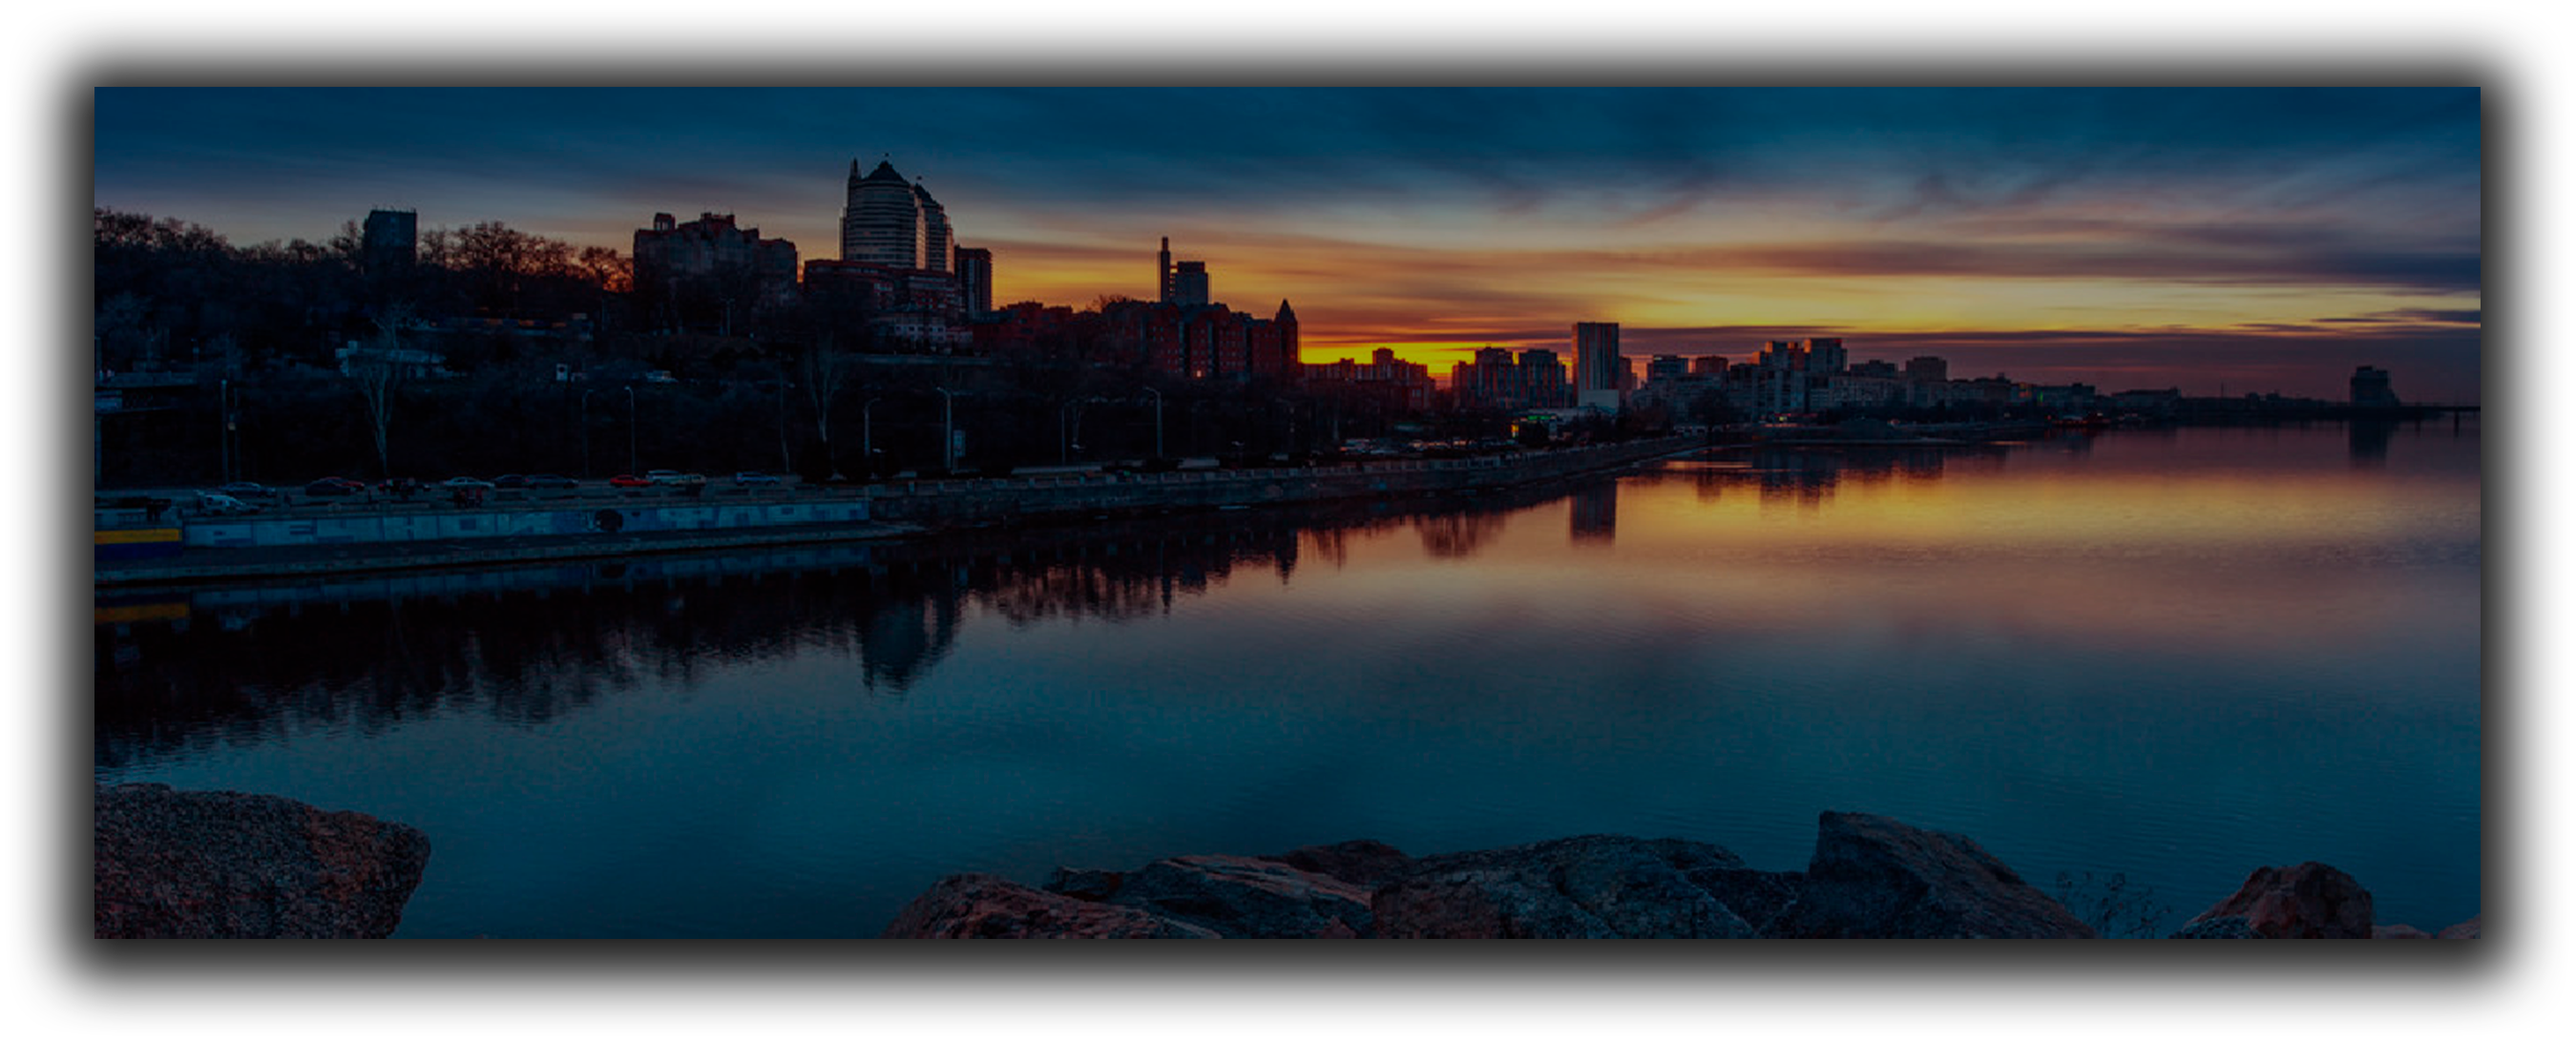
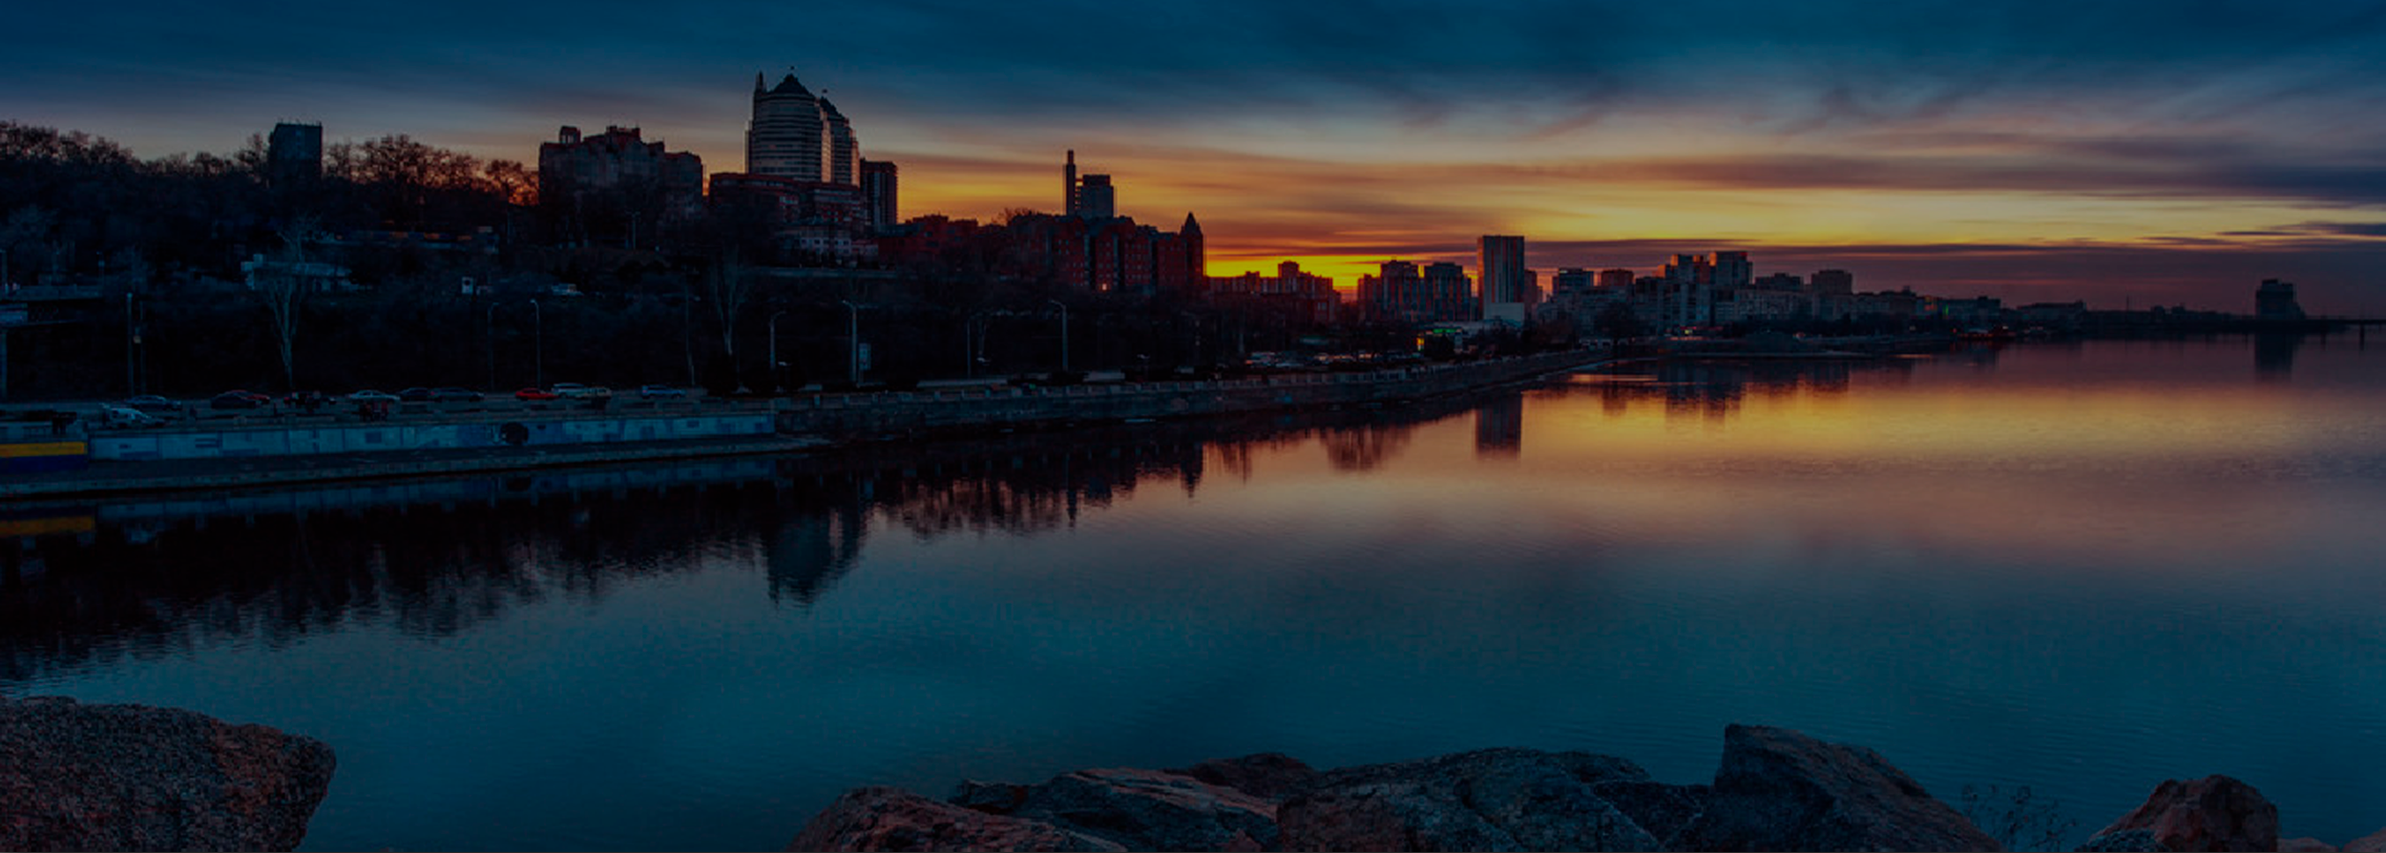
Add navigation and update header styles

diff --git a/afishaDnepra/index.html b/afishaDnepra/index.html
@@ -21,8 +21,8 @@
     <script src="js/vendor/home.js"></script>
 </head>
 <body>
-    <div class="wrapper">
-        <header class="header">
+    <header class="header">
+        <div class="wrapper">
             <a href="#" class="logo">
                 <img src="img/header_logo.png" class="header-logo">
                 <img src="img/header_logo_sub.png" class="header-sublogo">
@@ -38,27 +38,31 @@
                 </form>
             </div>
             <div class="top-gallery"></div>
-        </header>
-        <div class="nav cf">
-            <ul class="menu fl-l">
-                <li class="home"><a href="#"><span>Домой</span></a></li>
-                <li class="map"><a href="#"><span>Карта</span></a></li>
-            </ul>
-            <a href="#" class="calendar fl-r"><span>Календарь</span></a>
-            <ul class="menu">
-                <li class="sport"><a href="#"><span>Спорт</span></a></li>
-                <li class="thater"><a href="#"><span>Театры</span></a></li>
-                <li class="club"><a href="#"><span>Клубы</span></a></li>
-                <li class="movie"><a href="#"><span>Кино</span></a></li>
-                <li class="party"><a href="#"><span>Праздники</span></a></li>
-                <li class="exhibition"><a href="#"><span>Выставки</span></a></li>
-                <li class="presentation"><a href="#"><span>Презентации</span></a></li>
-                <li class="children"><a href="#"><span>Детям</span></a></li>
-                <li class="other"><a href="#"><span>Остальное</span></a></li>
-            </ul>
         </div>
-        <content></content>
-        <footer class="footer"></footer>
+    </header>
+    <div class="wrapper">
+        <div class="content-shadow">
+            <div class="nav cf">
+                <ul class="menu menu-left fl-l">
+                    <li class="home"><a href="#"><span>Домой</span></a></li>
+                    <li class="map"><a href="#"><span>Карта</span></a></li>
+                </ul>
+                <a href="#" class="calendar menu-right fl-r"><span>Календарь</span></a>
+                <ul class="menu menu-center">
+                    <li class="sport"><a href="#"><span>Спорт</span></a></li>
+                    <li class="theater"><a href="#"><span>Театры</span></a></li>
+                    <li class="club"><a href="#"><span>Клубы</span></a></li>
+                    <li class="movie"><a href="#"><span>Кино</span></a></li>
+                    <li class="party"><a href="#"><span>Праздники</span></a></li>
+                    <li class="exhibition"><a href="#"><span>Выставки</span></a></li>
+                    <li class="presentation"><a href="#"><span>Презентации</span></a></li>
+                    <li class="children"><a href="#"><span>Детям</span></a></li>
+                    <li class="other"><a href="#"><span>Остальное</span></a></li>
+                </ul>
+            </div>
+            <div class="content-wrap"></div>
+            <footer class="footer"></footer>
+        </div>
     </div>
 </body>
 </html>

diff --git a/afishaDnepra/css/nav.css b/afishaDnepra/css/nav.css
@@ -1,12 +1,84 @@
 .nav {
     background-color: rgba(0,0,0,.35);
+    padding: 5px 50px;
+}
+
+.nav .menu-center {
+    margin: 0 50px 0 130px;
+    text-align: center;
 }
 
 .nav .menu li {
     display: inline-block;
     vertical-align: middle;
+    margin: 0 4px;
 }
 
 .nav .menu li a {
-    
+    display: block;
+    width: 55px;
+    height: 55px;
+    background-repeat: no-repeat;
+    background-size: 100%;
+    position: relative;
+}
+
+.nav .menu li.home a {background-image: url('../img/menu_home.png');}
+.nav .menu li.map a {background-image: url('../img/menu_map.png');}
+.nav .menu li.sport a {background-image: url('../img/menu_sport.png');}
+.nav .menu li.theater a {background-image: url('../img/menu_theater.png');}
+.nav .menu li.club a {background-image: url('../img/menu_disco.png');}
+.nav .menu li.movie a {background-image: url('../img/menu_movie.png');}
+.nav .menu li.party a {background-image: url('../img/menu_party.png');}
+.nav .menu li.exhibition a {background-image: url('../img/menu_exhibit.png');}
+.nav .menu li.presentation a {background-image: url('../img/menu_presentation.png');}
+.nav .menu li.children a {background-image: url('../img/menu_children.png');}
+.nav .menu li.other a {background-image: url('../img/menu_other.png');}
+
+.nav .menu li a span,
+.nav .calendar span {
+    background: #db3b15;
+    display: none;
+    color: #fff; 
+    padding: 7px 15px;
+    text-transform: uppercase;
+    border-radius: 30px;
+    box-shadow: 0px 2px 2px #000; 
+    position: absolute;
+    top: -40px;
+    left: 50%;
+}
+
+.nav .menu li a span:after,
+.nav .calendar span:after {
+    content: "";
+    display: block;
+    position: absolute;
+    bottom: -15px;
+    left: 5px;
+    width: 0;
+    height: 0;
+    border-style: solid;
+    border-width: 25px 8.5px 0 8.5px;
+    border-color: #db3b15 transparent transparent transparent;
+    transform: rotate(35deg);
+}
+
+.nav .menu li a:hover span,
+.nav .calendar:hover span {
+    display: block;
+}
+
+.nav .calendar {
+    background-image: url('../img/icon_calendar.png');
+    background-repeat: no-repeat;
+    background-position: 50% 50%;
+    background-size: 35px 40px;
+    width: 55px;
+    height: 55px;
+    position: relative;
+}
+
+.nav .calendar span {
+    display: none;
 }

diff --git a/afishaDnepra/css/fonts.css b/afishaDnepra/css/fonts.css
@@ -1,13 +1,19 @@
 @font-face {
     font-family: 'CenturyGothic';
-    src: url('CenturyGothic.eot?#iefix') format('embedded-opentype'),  url('CenturyGothic.woff') format('woff'), url('CenturyGothic.ttf')  format('truetype'), url('CenturyGothic.svg#CenturyGothic') format('svg');
+    src: url('../fonts/CenturyGothic.eot?#iefix') format('embedded-opentype'),  
+    url('../fonts/CenturyGothic.woff') format('woff'), 
+    url('../fonts/CenturyGothic.ttf')  format('truetype'), 
+    url('../fonts/CenturyGothic.svg#CenturyGothic') format('svg');
     font-weight: normal;
     font-style: normal;
 }
 
 @font-face {
     font-family: 'CenturyGothic-Bold';
-    src: url('CenturyGothic-Bold.eot?#iefix') format('embedded-opentype'),  url('CenturyGothic-Bold.woff') format('woff'), url('CenturyGothic-Bold.ttf')  format('truetype'), url('CenturyGothic-Bold.svg#CenturyGothic-Bold') format('svg');
+    src: url('../fonts/CenturyGothic-Bold.eot?#iefix') format('embedded-opentype'),  
+    url('../fonts/CenturyGothic-Bold.woff') format('woff'), 
+    url('../fonts/CenturyGothic-Bold.ttf')  format('truetype'), 
+    url('../fonts/CenturyGothic-Bold.svg#CenturyGothic-Bold') format('svg');
     font-weight: normal;
     font-style: normal;
 }

diff --git a/afishaDnepra/css/common.css b/afishaDnepra/css/common.css
@@ -2,10 +2,13 @@ html,
 body {
     margin: 0;
     padding: 0;
+    font-family: 'CenturyGothic';
+    font-size: 14px;
 }
 
 a {
     text-decoration: none;
+    color: inherit;
 }
 
 a:hover {
@@ -14,6 +17,15 @@ a:hover {
 
 img {
     max-width: 100%;
+}
+
+ul {
+    padding: 0;
+    margin: 0;
+}
+
+li {
+    list-style: none;
 }
 
 .cf::after {
@@ -25,4 +37,13 @@ img {
 .wrapper {
     max-width: 1024px;
     margin: 0 auto;
+}
+
+.content-shadow {
+    padding-top: 100px;
+    background: rgba(0,0,0,.18);
+}
+
+.content-wrap {
+    min-height: 500px;
 }

diff --git a/afishaDnepra/css/helper.css b/afishaDnepra/css/helper.css
@@ -15,11 +15,12 @@
 .text-right {text-align: right;}
 
 /* Text Size */
-.text-xs {font-size: 14px;}
-.text-s {font-size: 14px;}
-.text-m {font-size: 14px;}
-.text-l {font-size: 14px;}
-.text-xl {font-size: 14px;}
+.text-xs {font-size: 12px;}
+.text-s {font-size: 13px;}
+.text-normal {font-size: 14px;}
+.text-m {font-size: 16px;}
+.text-l {font-size: 18px;}
+.text-xl {font-size: 20px;}
 
 /* Text Weight */
 .f-bold {font-weight: bold;}

diff --git a/afishaDnepra/css/header.css b/afishaDnepra/css/header.css
@@ -1,6 +1,7 @@
 .header {
-	background: url(../img/bg_header.png) no-repeat 50% -90px;
+	background: url(../img/bg_header.png) no-repeat 50% 0;
 	min-height: 893px;
+	box-shadow: 0px 30px 100px rgba(0,0,0,.6);
 }
 .contacts {
 	background-color: rgba(255,255,255,.35);
